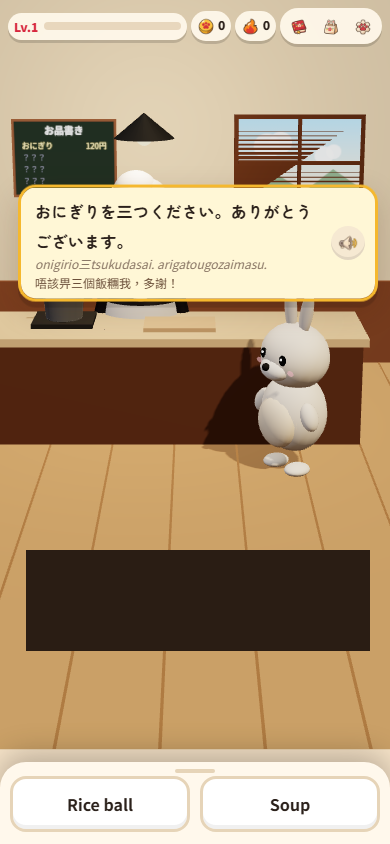
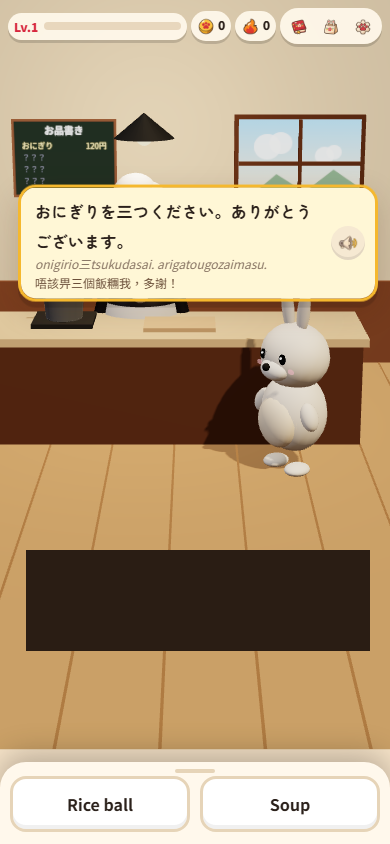
fix: stop window flicker and keep recipe start button visible

diff --git a/src/style.css b/src/style.css
@@ -178,10 +178,12 @@ ruby rt { font-size: 0.5em; color: var(--red-d); font-weight: 700; }
 @keyframes fin { from { opacity: 0; } }
 .card { background: var(--paper); width: 100%; max-width: 520px; max-height: 88vh; border-radius: 26px 26px 0 0; display: flex; flex-direction: column; animation: up .3s cubic-bezier(.2,.9,.3,1.1); padding-bottom: var(--safe-b); }
 @keyframes up { from { transform: translateY(40%); } }
-.card-head { display: flex; align-items: center; padding: 14px 16px 6px; }
+.card-head { display: flex; flex-shrink: 0; align-items: center; padding: 14px 16px 6px; }
 .card-head h2 { flex: 1; margin: 0; font-size: 19px; font-weight: 900; }
 .x { width: 36px; height: 36px; border-radius: 50%; background: var(--paper2); font-size: 16px; }
-.card-body { overflow-y: auto; padding: 6px 16px 18px; }
+.card-body { min-height: 0; overflow-y: auto; overscroll-behavior: contain; padding: 6px 16px 18px; }
+.card-footer { flex-shrink: 0; padding: 12px 16px; border-top: 1px solid var(--line); background: var(--paper); }
+.card-footer .btn { animation: none; }
 .card-body h3 { margin: 16px 0 6px; font-size: 15px; color: var(--red-d); }
 /* 轉場：圓形光圈由貓爪位置擴開 / 收埋 */
 #fade { position: fixed; inset: 0; background: var(--bg); z-index: 70; clip-path: circle(0% at 50% 45%); pointer-events: none; transition: clip-path .5s cubic-bezier(.65,0,.35,1); display: grid; place-items: center; font-size: 56px; }
@@ -200,7 +202,6 @@ ruby rt { font-size: 0.5em; color: var(--red-d); font-weight: 700; }
 .ing-list .amt { color: #6b4f3a; flex: 1; text-align: right; font-size: 13px; }
 .mini-spk { width: 28px; height: 28px; border-radius: 50%; background: var(--paper2); font-size: 12px; flex: none; }
 .howto { padding-left: 20px; margin: 0; display: flex; flex-direction: column; gap: 6px; font-size: 14px; line-height: 1.6; }
-.recipe .btn.big { margin-top: 16px; }
 
 /* 圖鑑 */
 .tabs { display: flex; gap: 6px; margin-bottom: 10px; }

diff --git a/src/three/world.js b/src/three/world.js
@@ -102,11 +102,12 @@ export class World {
     wainscot.position.set(0, 0.5, -2.17); k.add(wainscot);
     // 窗
     const win = new THREE.Mesh(new THREE.PlaneGeometry(1.4, 1.0), new THREE.MeshBasicMaterial({ map: this.skyTexture() }));
-    win.position.set(1.4, 2.4, -2.18); k.add(win);
+    // Keep the sky in front of the backing and behind the bars: coplanar faces flicker.
+    win.position.set(1.4, 2.4, -2.14); k.add(win);
     const frame = new THREE.Mesh(new THREE.BoxGeometry(1.5, 1.1, 0.04), mat(0x6b4226));
-    frame.position.set(1.4, 2.4, -2.2); k.add(frame);
-    const bar1 = new THREE.Mesh(new THREE.BoxGeometry(0.04, 1.0, 0.06), mat(0x6b4226)); bar1.position.set(1.4, 2.4, -2.16); k.add(bar1);
-    const bar2 = new THREE.Mesh(new THREE.BoxGeometry(1.4, 0.04, 0.06), mat(0x6b4226)); bar2.position.set(1.4, 2.4, -2.16); k.add(bar2);
+    frame.position.set(1.4, 2.4, -2.17); k.add(frame);
+    const bar1 = new THREE.Mesh(new THREE.BoxGeometry(0.04, 1.0, 0.06), mat(0x6b4226)); bar1.position.set(1.4, 2.4, -2.10); k.add(bar1);
+    const bar2 = new THREE.Mesh(new THREE.BoxGeometry(1.4, 0.04, 0.06), mat(0x6b4226)); bar2.position.set(1.4, 2.4, -2.10); k.add(bar2);
     // 餐牌板
     this.menuBoard = new THREE.Mesh(new THREE.PlaneGeometry(1.2, 0.9), new THREE.MeshBasicMaterial({ map: this.menuTexture([]) }));
     this.menuBoard.position.set(-1.3, 2.45, -2.17); k.add(this.menuBoard);

diff --git a/src/ui.js b/src/ui.js
@@ -158,13 +158,14 @@ export function coinFly(n, from = { x: innerWidth / 2, y: innerHeight * 0.4 }) {
 }
 
 // ===== Modal =====
-export function modal(title, body, { onClose = null, wide = false } = {}) {
+export function modal(title, body, { onClose = null, wide = false, footer = null } = {}) {
   const m = $('#modal');
   m.innerHTML = '';
   const close = () => { m.classList.remove('show'); onClose?.(); };
   const card = h('div', { class: `card ${wide ? 'wide' : ''}` },
     h('div', { class: 'card-head' }, h('h2', { html: title }), h('button', { class: 'x', onclick: () => { sfx('tap'); close(); } }, '✕')),
-    h('div', { class: 'card-body' }, body));
+    h('div', { class: 'card-body' }, body),
+    footer ? h('div', { class: 'card-footer' }, footer) : null);
   decorateArt(card);
   m.append(card);
   m.classList.add('show');

diff --git a/src/screens.js b/src/screens.js
@@ -45,8 +45,8 @@ export function recipeCard(r, { onStart = null } = {}) {
     h('h3', {}, '做法（真係煮得㗎！）'),
     h('ol', { class: 'howto' }, r.howto.map((t) => h('li', {}, t))),
   );
-  if (onStart) body.append(h('button', { class: 'btn primary big', onclick: () => { sfx('tap'); m.close(); } }, '🔥 開始煮！'));
-  const m = modal('📖 食譜', body, { onClose: onStart, wide: true });
+  const footer = onStart ? h('button', { class: 'btn primary big', onclick: () => { sfx('tap'); m.close(); } }, '🔥 開始煮！') : null;
+  const m = modal('📖 食譜', body, { onClose: onStart, wide: true, footer });
   return m;
 }
 

diff --git a/scripts/check-window-recipe.py b/scripts/check-window-recipe.py
@@ -1,0 +1,65 @@
+"""Check window depth separation and no-scroll recipe continuation on mobile."""
+import sys
+from pathlib import Path
+from playwright.sync_api import sync_playwright
+
+url = sys.argv[1] if len(sys.argv) > 1 else 'http://localhost:5173/'
+with sync_playwright() as p:
+    browser = p.chromium.launch()
+    page = browser.new_page(viewport={'width':390,'height':844}, reduced_motion='reduce')
+    errors = []
+    page.on('pageerror', lambda error: errors.append(str(error)))
+    page.goto(url)
+    page.wait_for_function('window.__world')
+    page.evaluate("document.querySelector('#start').remove()")
+    # The backing must be wholly behind the sky, and the bars wholly in front.
+    # This catches coplanar faces and actual geometry intersections, not just draw order.
+    layers = page.evaluate("""() => {
+      const meshes=__world.kitchen.children;
+      const sky=meshes.find(m=>m.geometry?.type==='PlaneGeometry' && m.geometry.parameters.width===1.4);
+      const backing=meshes.find(m=>m.geometry?.type==='BoxGeometry' && m.geometry.parameters.width===1.5);
+      const bars=meshes.filter(m=>m.geometry?.type==='BoxGeometry' && m.geometry.parameters.depth===0.06 && m.position.x===1.4);
+      return {sky:sky.position.z, backingFront:backing.position.z+backing.geometry.parameters.depth/2,
+        barsBack:bars.map(b=>b.position.z-b.geometry.parameters.depth/2)};
+    }""")
+    assert layers['sky'] - layers['backingFront'] > 0.005, layers
+    assert len(layers['barsBack']) == 2 and all(z - layers['sky'] > 0.005 for z in layers['barsBack']), layers
+    page.screenshot(path='docs/art-review/window-fixed.png')
+    print('PASS window: no overlapping sky, backing or bars')
+
+    for width,height in [(320,568),(390,844),(430,932),(844,390)]:
+        page.set_viewport_size({'width':width,'height':height})
+        count = page.evaluate("""async () => {
+          const {RECIPES}=await import('/src/data/recipes.js');return RECIPES.length;
+        }""")
+        for index in range(count):
+            page.evaluate("""async index => {
+              const {recipeCard}=await import('/src/screens.js');
+              const {RECIPES}=await import('/src/data/recipes.js');
+              window.continued=0;
+              recipeCard(RECIPES[index], {onStart:()=>window.continued++});
+            }""", index)
+            page.wait_for_timeout(60)
+            button=page.locator('.card-footer button')
+            box=button.bounding_box()
+            assert 0 <= box['y'] and box['y']+box['height'] <= height+1, (width,height,index,box)
+            assert box['height'] >= 44, box
+            assert page.locator('.card-body').evaluate('(el)=>el.scrollTop') == 0
+            # Still reachable after reading all ingredients and instructions.
+            page.locator('.card-body').evaluate('(el)=>el.scrollTop=el.scrollHeight')
+            after=button.bounding_box()
+            assert abs(box['y']-after['y']) < 1, (box,after)
+            page.locator('.card-body').evaluate('(el)=>el.scrollTop=0')
+            if width == 390 and index == 0:
+                page.screenshot(path='docs/art-review/recipe-fixed.png')
+            button.click()
+            assert page.evaluate('window.continued') == 1
+            assert not page.locator('#modal').evaluate('(el)=>el.classList.contains("show")')
+        print(f'PASS {width}x{height}: {count} recipes continue without scrolling')
+    page.evaluate("""async()=>{
+      const {recipeCard}=await import('/src/screens.js');
+      const {RECIPES}=await import('/src/data/recipes.js');recipeCard(RECIPES[0]);
+    }""")
+    assert page.locator('.card-footer').count() == 0, 'Reading-only recipe should have no start button'
+    assert not errors, errors
+    browser.close()

diff --git a/docs/MOBILE_CHECK.md b/docs/MOBILE_CHECK.md
@@ -7,3 +7,5 @@
 `python scripts/check-mobile.py` 使用 Chromium，檢查 320×568、375×667、390×844、430×932、768×1024、844×390 同 1280×800，分別驗證廚房、上菜及煮食鏡頭，共 21 組。檢查長對白邊界、客人模型八角投影、頁面冇水平溢出、商店／圖鑑／設定／食譜載圖、全部單詞素材及泡泡清理。
 
 畫面截圖見 `docs/art-review/mobile-*.png`。呢啲係瀏覽器模擬尺寸檢查，未使用實體手機。
+
+窗景／食譜修正：`python scripts/check-window-recipe.py` 驗證窗框、窗景及橫直窗格完全分層，並檢查四款食譜喺 320×568、390×844、430×932、844×390 嘅固定底欄按鈕。頁面一開就可以繼續，捲動食譜唔會移走按鈕；每次按鈕只會推進一次。截圖見 `window-fixed.png` 同 `recipe-fixed.png`。
